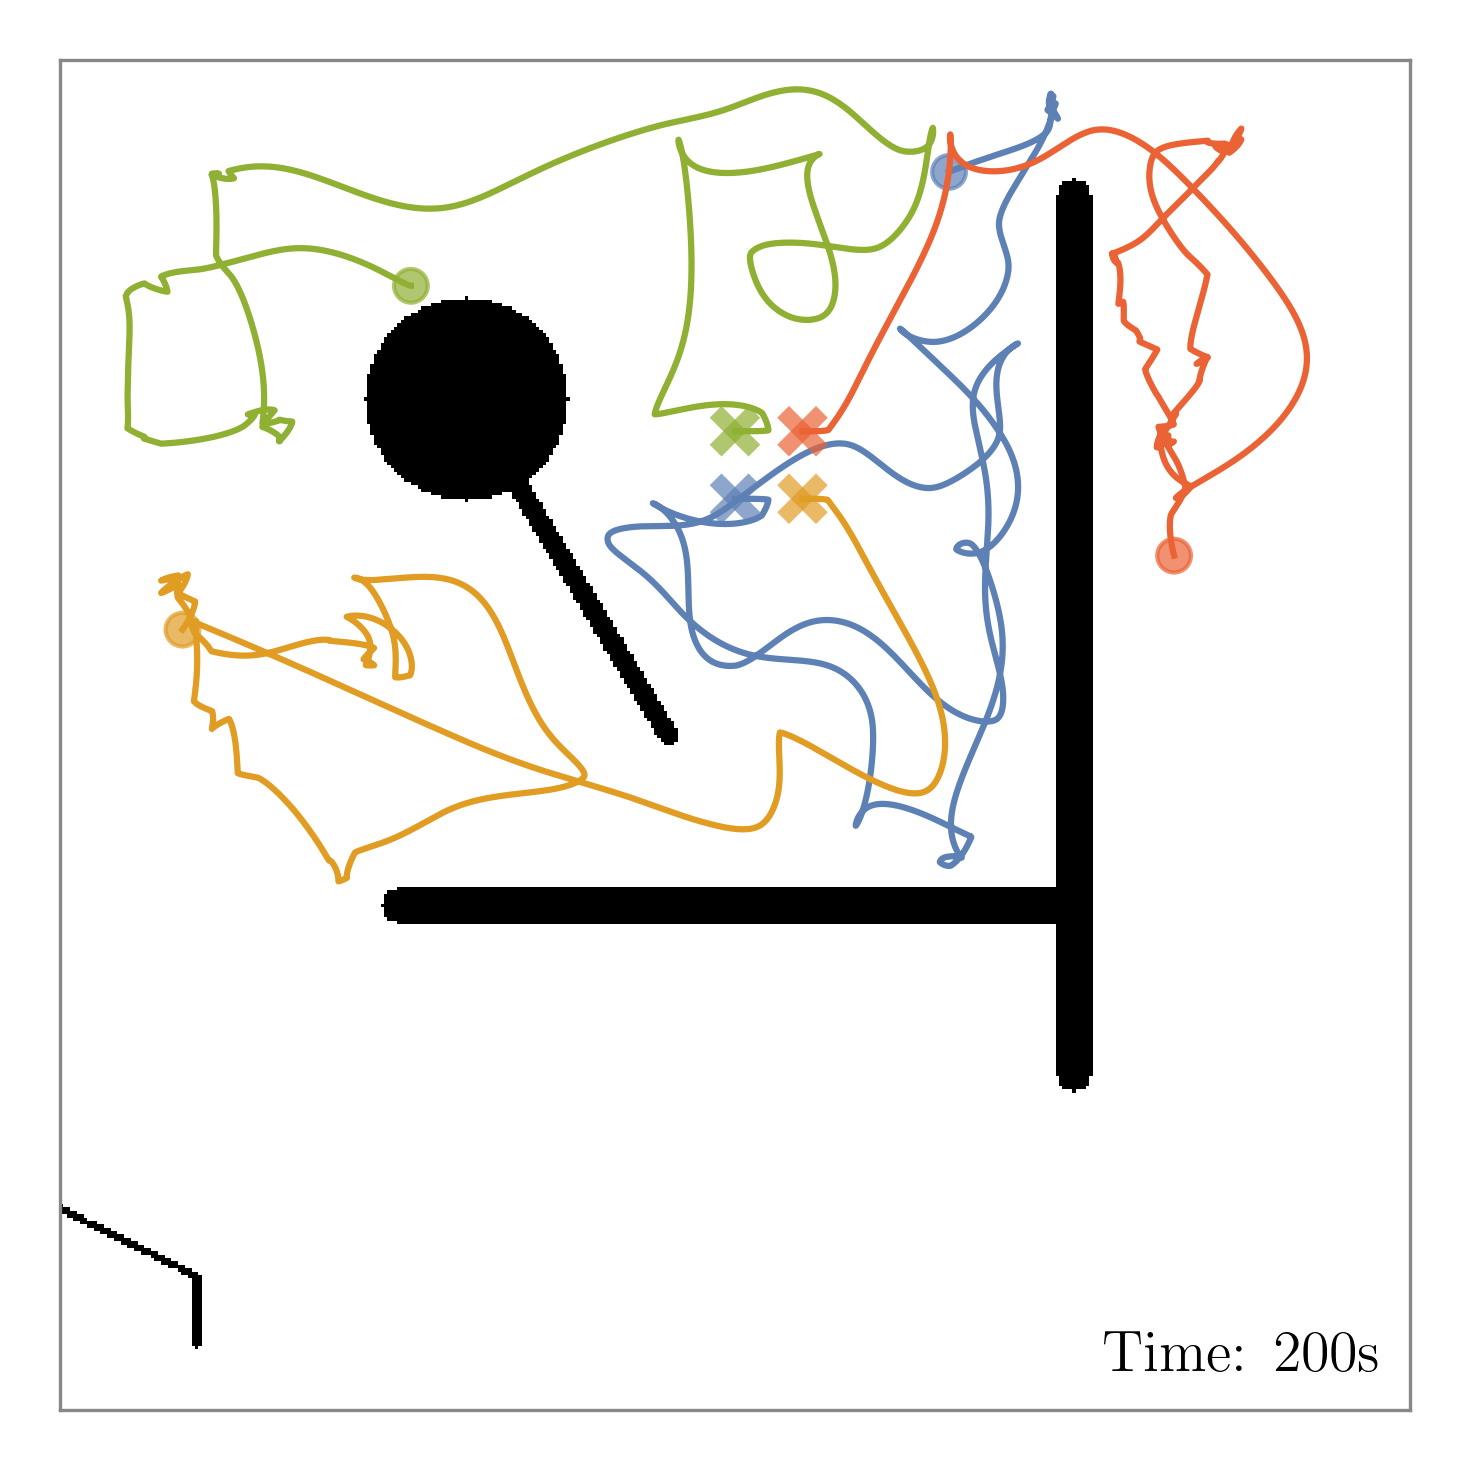
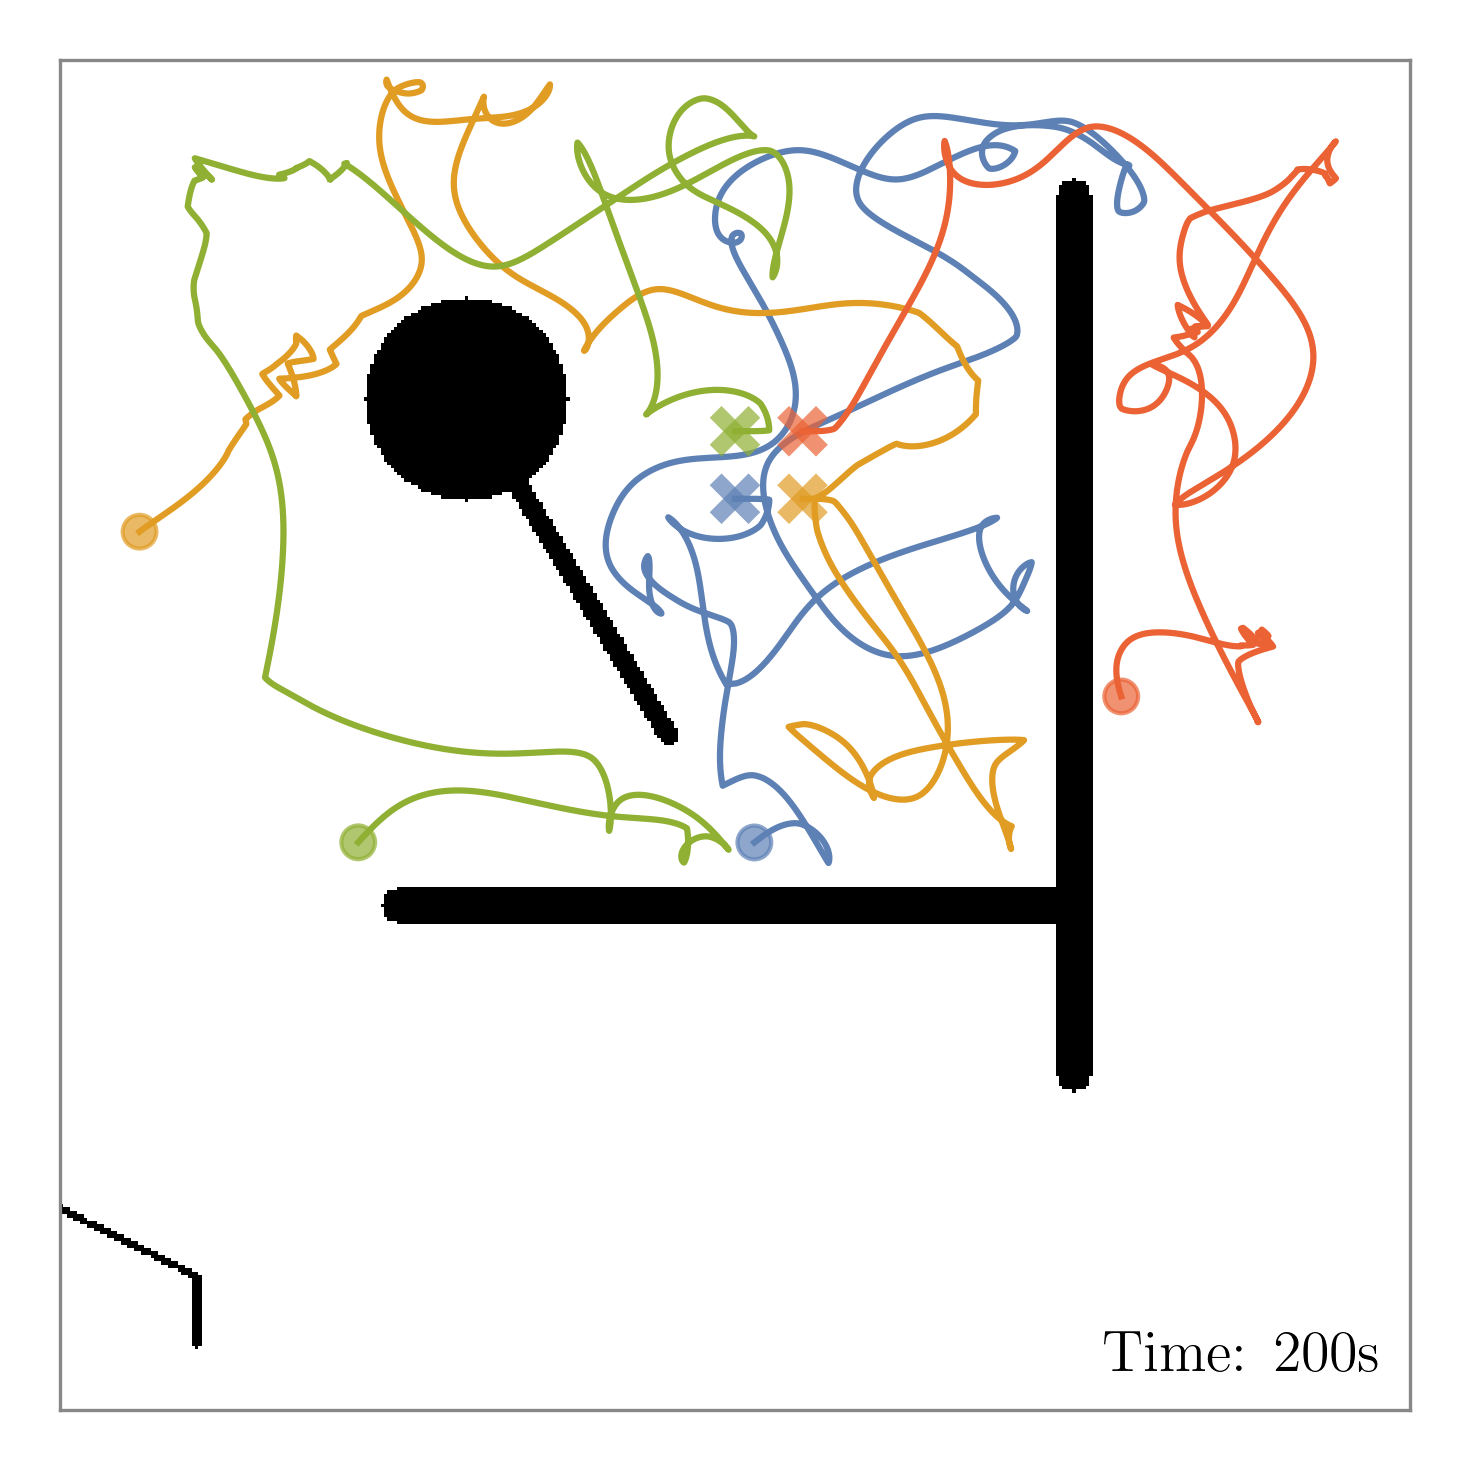
plotting: Plot multiple runs!

Changed region(s): [[0.0612, 0.0612, 0.9184, 0.6122], [0.8878, 0.0918, 0.9184, 0.1224], [0.3061, 0.398, 0.3367, 0.4286]]

diff --git a/botplot/src/botplot/__init__.py b/botplot/src/botplot/__init__.py
@@ -295,6 +295,56 @@ class Result:
     def world(self) -> World:
         return World.from_description_file(self.description_file)
 
+class ResultCollection:
+    name: str
+    results: list[Result]
+    min: pl.DataFrame
+    max: pl.DataFrame
+    avg: pl.DataFrame
+
+    def __init__(self, name: str, results: list[Result]) -> None:
+        self.name = name
+        self.results = results
+
+        dfs = [r.df() for r in results]
+
+        cols = dfs[0].columns
+
+        for df in dfs:
+            if set(cols) != set(df.columns):
+                print("\nError: Result columns do not match")
+
+        self.min = pl.DataFrame()
+        self.max = pl.DataFrame()
+        self.avg = pl.DataFrame()
+
+        for col in cols:
+            runs = [df[col] for df in dfs]
+            df_temp = pl.DataFrame({f"s{i}": s for i, s in enumerate(runs)})
+
+            max = df_temp.max_horizontal()
+            min = df_temp.min_horizontal()
+            avg = df_temp.mean_horizontal()
+
+            self.max = self.max.with_columns((max).alias(col))
+            self.min = self.min.with_columns((min).alias(col))
+            self.avg = self.avg.with_columns((avg).alias(col))
+
+    def plot(self, col: str, ax, spread=True, color=None, label: bool = True):
+        time = self.avg["time"]
+
+        l = None
+        if label:
+            l = self.name
+
+        line, = ax.plot(time, self.avg[col], linewidth=2, label=l, color=color)
+        if spread:
+            color = line.get_color()
+            ax.fill_between(time, self.min[col], self.max[col], color=color, alpha=0.1)
+            ax.plot(time, self.min[col], color=color, alpha=0.8, linewidth=0.3)
+            ax.plot(time, self.max[col], color=color, alpha=0.8, linewidth=0.3)
+        return line
+
 class SimpleResult(Result):
     """Result from running a scenario with simple_sim."""
 
@@ -498,31 +548,92 @@ def plot_world(fig, ax, world: World, title: str, out_file: str, borders: bool, 
     return out_file
 
 def save_figure(fig, output_file: str):
-    os.makedirs(os.path.dirname(output_file), exist_ok=True)
+    name = os.path.basename(output_file).replace(" ", "-").lower()
+    dir = os.path.dirname(output_file)
+    os.makedirs(dir, exist_ok=True)
+    output_file = os.path.join(dir, name)
     fig.savefig(output_file, dpi=300, bbox_inches='tight', pad_inches=0.2)
     plt.close(fig)
     print(f"Plot saved to '{relpath(output_file)}'")
 
-def plot_coverage(results: list[Result] | Result, name: str, title=None):
+def plot_coverage(results: Result | list[Result] | ResultCollection | list[ResultCollection], name: str, title=None):
 
+    fig, ax = plt.subplots()
+
+    file = os.path.join(plot_dir(), f"{name}.png")
+
+    if not isinstance(results, list): results = [results]
+
+    if isinstance(results, list) and all(isinstance(item, ResultCollection) for item in results):
+        lines = [(c, c.plot("coverage", ax, label=False)) for c in results]
+        for c, line in lines:
+            c.plot("coverage", ax, color=line.get_color(), spread=False)
+
+    else:
+
+        for result in results:
+            df = result.df()
+            desc = result.desc()
+            ax.plot(df["time"], df["coverage"], label=desc["title"])
+
+    if len(results) > 1: ax.legend()
+
+    if title is None: title = name
+
+    ax.set_xlabel(r"Time (s)")
+    ax.set_ylabel(r"Coverage (\%)")
+    ax.set_title(title)
+
+    save_figure(fig, file)
+
+def show_velocities(ax, df: pl.DataFrame, robot_count: int, label: str | None = None) -> pl.DataFrame:
+
+    df = df.with_columns([
+        pl.col("time").diff().alias("delta_time")
+    ])
+
+    for i in range(robot_count):
+        df = df.with_columns([
+            (pl.col(f"robot_{i}/x").diff().pow(2) + pl.col(f"robot_{i}/y").diff().pow(2)).sqrt().alias(f"robot_{i}/distance"),
+        ]).with_columns([
+            (pl.col(f"robot_{i}/distance") / pl.col("delta_time")).alias(f"robot_{i}/vel")
+        ])
+
+    velocity_cols = [pl.col(f"robot_{i}/vel") for i in range(robot_count)]
+
+    df = df.with_columns([
+        pl.min_horizontal(velocity_cols).alias("vel_min"),
+        pl.max_horizontal(velocity_cols).alias("vel_max"),
+        pl.mean_horizontal(velocity_cols).alias("vel_mean"),
+    ])
+
+    line, = ax.plot(df["time"], df["vel_mean"], linewidth=2, label=label)
+    color = line.get_color()
+    ax.fill_between(df["time"], df["vel_min"], df["vel_max"],
+                     color=color, alpha=0.3, label="Min-Max Range")
+
+def plot_velocity(results: list[Result] | Result, name: str, title=None):
     file = os.path.join(plot_dir(), f"{name}.png")
 
     if isinstance(results, Result): results = [results]
 
+    fig, ax = plt.subplots(figsize=(12, 6))
+
     for result in results:
         df = result.df()
         desc = result.desc()
-        plt.plot(df["time"], df["coverage"], label=desc["title"])
+        robot_count = len(desc["robots"])
+        show_velocities(ax, df, robot_count, label=desc["title"])
 
-    if title is None: title = "Coverage over time"
+    if title is None: title = "Velocity over time"
 
-    plt.xlabel(r"Time (s)")
-    plt.ylabel(r"Coverage (\%)")
-    plt.title(title)
+    ax.set_xlabel(r"Time (s)")
+    ax.set_ylabel(r"Velocity (m/s)")
+    ax.set_title(title)
 
     if len(results) > 1: plt.legend()
 
-    save_figure(plt.gcf(), file)
+    save_figure(fig, file)
 
 def plot_bytes(results: list[Result] | Result, output_file: str, title=None):
 
@@ -639,7 +750,7 @@ def plot_performance(result: Result | list[Result], title: str, max=None, force=
 
     plt.close(fig)
 
-def plot_paths(result: Result, title: str, segments=1, force=False, borders=False, plot_title: bool = True, time_label: bool=False) -> list[str]:
+def plot_paths(result: Result, title: str, segments=1, force=False, borders=False, plot_title: bool = False, time_label: bool=True) -> list[str]:
     df = result.df()
     desc = result.desc()
 

diff --git a/plotting/multiple_runs.py b/plotting/multiple_runs.py
@@ -1,0 +1,44 @@
+import botplot as bp
+
+WORLD = bp.repo_path("worlds/objectmap/pathing_example.ron")
+
+RUNS = 5
+DURATION = 600
+ROBOTS = 4
+
+BEHAVIORS = [
+    ("avoid-obstacles", "Roomba"),
+    ("search:gradient", "Gradient"),
+    ("search:hybrid", "Hybrid"),
+    ("search:pathing", "Pure Pathing"),
+]
+
+def main():
+
+    collections = []
+
+    for behavior, name in BEHAVIORS:
+        results: list[bp.Result] = []
+
+        bp.seed(42)
+        for i in range(5):
+            print(f"{name} run {i+1}/{RUNS}")
+
+            scenario = bp.Scenario(
+                title=f"{name} run {i+1}",
+                world=WORLD,
+                behavior=behavior,
+                duration=DURATION,
+                robots=ROBOTS,
+            )
+
+            res = bp.run_sim(scenario, f"multiple_runs/run-{i+1}")
+            results.append(res)
+
+        collections.append(bp.ResultCollection(name, results))
+
+    bp.plot_coverage(collections, f"Coverage over {RUNS} runs")
+
+
+if __name__ == "__main__":
+    main()

diff --git a/plotting/report/pathing_examples.py b/plotting/report/pathing_examples.py
@@ -32,7 +32,9 @@ if __name__ == "__main__":
 
         res = bp.run_sim(scenario)
 
-        plot_files = bp.plot_paths(res, f"{behavior}-paths", 3, borders=True, plot_title=False, time_label=True)
+        plot_files = bp.plot_paths(res, f"{behavior}-paths", 3, borders=True)
+
+        bp.plot_velocity(res, f"{behavior}-velocity", f"{behavior} Velocity")
 
         for src in plot_files:
             dst = os.path.join(PLOT_DIR, "paths", os.path.basename(src))

diff --git a/botbrain/src/behaviors/search/mod.rs b/botbrain/src/behaviors/search/mod.rs
@@ -482,7 +482,7 @@ impl SearchRobot {
         }
         let angle_error = normalize_angle(self.angle - target.angle());
         let t = (angle_error * angle_error / ANGLE_THRESHOLD).clamp(0.0, 1.0);
-        let speed = 1.0 - t;
+        let speed = (1.0 - t).sqrt();
         let steer = normalize_angle(target.angle() - self.angle);
 
         Control { speed, steer }
